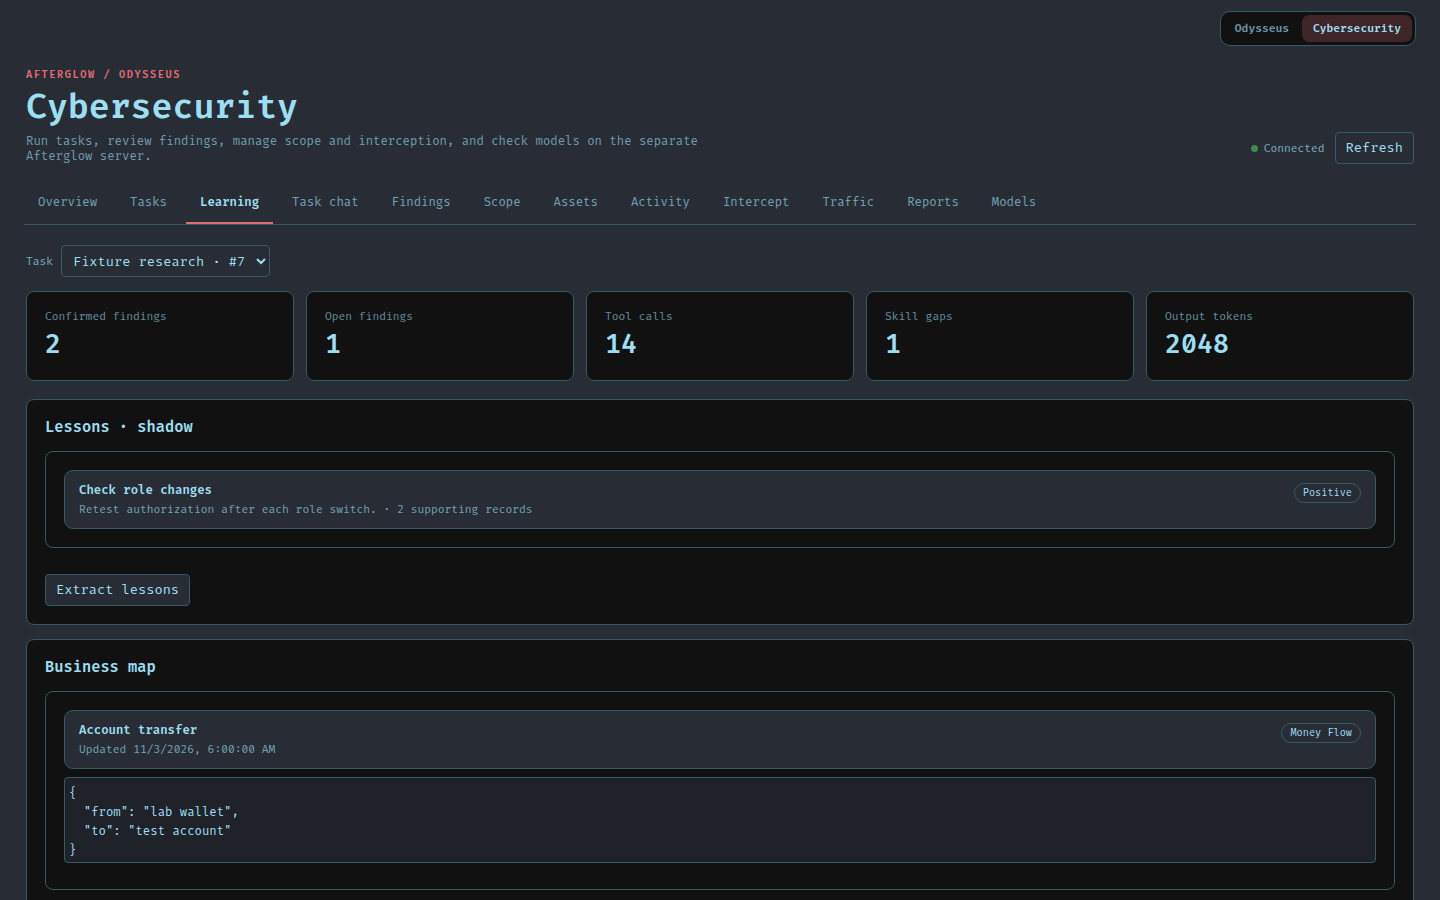
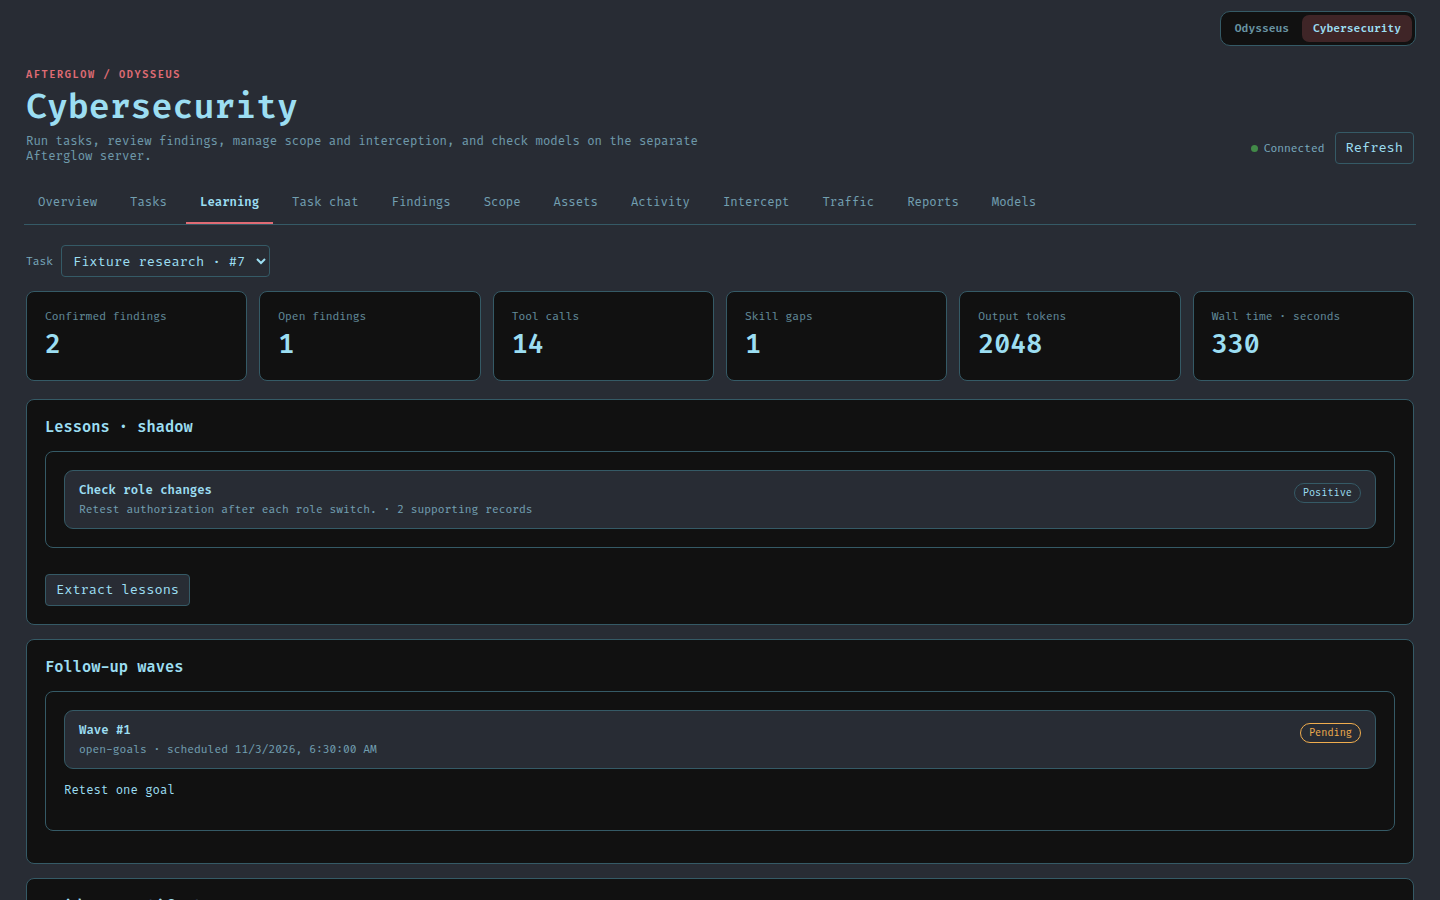
Show follow-up waves, artifacts, and safe handoff summaries

diff --git a/static/js/cybersecurity.js b/static/js/cybersecurity.js
@@ -440,8 +440,10 @@ export function initCybersecurityMode() {
     await loadTasks();
     if (!selectedTask) return empty('Create or select a task to view its learning record.');
     const taskId = selectedTask;
-    const [outcome, lessonData, mapData, campaignData, huntData, chainData] = await Promise.all([
+    const [outcome, lessonData, waveData, artifactData, handoffData, mapData, campaignData, huntData, chainData] = await Promise.all([
       api(`/tasks/${taskId}/outcome`), api(`/tasks/${taskId}/lessons`),
+      api(`/tasks/${taskId}/waves`), api(`/tasks/${taskId}/artifacts`),
+      api(`/tasks/${taskId}/c2-handoffs`),
       api(`/tasks/${taskId}/business-map`), api(`/tasks/${taskId}/campaign`),
       api(`/tasks/${taskId}/hunt-classes`), api(`/tasks/${taskId}/attack-chains`),
     ]);
@@ -455,6 +457,7 @@ export function initCybersecurityMode() {
       card('Tool calls', outcome.tool_calls ?? 0),
       card('Skill gaps', outcome.skill_misses ?? 0),
       card('Output tokens', outcome.tokens?.output_tokens ?? 0),
+      card('Wall time · seconds', outcome.wall_seconds ?? 0),
     );
     wrap.append(metrics);
 
@@ -481,6 +484,26 @@ export function initCybersecurityMode() {
       () => api(`/tasks/${taskId}/lessons/extract`, { method: 'POST', body: {} }),
       'Lesson extraction complete')));
     lessonPanel.append(lessonActions);
+
+    const waves = Array.isArray(waveData.waves) ? waveData.waves : [];
+    listSection('Follow-up waves', waves, 'No follow-up waves recorded for this task.', (wave) => {
+      const item = panel('');
+      item.append(row(`Wave #${wave.wave_number || wave.id}`,
+        `${wave.reason || 'Follow-up'} · scheduled ${fmtDate(wave.scheduled_at)}`, wave.status));
+      if (wave.detail) item.append(element('p', 'cyber-detail', wave.detail));
+      if (wave.spawned_task_id) item.append(element('p', 'cyber-detail',
+        `Follow-up task #${wave.spawned_task_id}`));
+      return item;
+    });
+
+    const artifacts = Array.isArray(artifactData.artifacts) ? artifactData.artifacts : [];
+    listSection('Evidence artifacts', artifacts, 'No evidence files indexed for this task.', (artifact) => {
+      const item = panel('');
+      item.append(row(artifact.path || `Artifact #${artifact.id}`,
+        `${Math.ceil(Number(artifact.size_bytes || 0) / 1024)} KiB · SHA-256 ${artifact.sha256 || 'unavailable'}`,
+        artifact.type));
+      return item;
+    });
 
     const businessMap = Array.isArray(mapData.business_map) ? mapData.business_map : [];
     listSection('Business map', businessMap, 'No business model entries recorded.', (entry) => {
@@ -523,6 +546,15 @@ export function initCybersecurityMode() {
       if (chain.reason) item.append(element('p', 'cyber-detail', `Result: ${chain.reason}`));
       if (chain.spawned_task_id) item.append(element('p', 'cyber-detail',
         `Verification task #${chain.spawned_task_id}`));
+      return item;
+    });
+    const handoffs = Array.isArray(handoffData.handoffs) ? handoffData.handoffs : [];
+    listSection('C2 handoffs', handoffs, 'No C2 handoffs recorded for this task.', (handoff) => {
+      const item = panel('');
+      item.append(row(handoff.vector || `Handoff #${handoff.id}`,
+        `${handoff.target_host || ''}${handoff.target_path || ''}`, handoff.status));
+      if (handoff.binary_sha256) item.append(element('p', 'cyber-detail',
+        `${handoff.binary_arch || 'Binary'} · SHA-256 ${handoff.binary_sha256}`));
       return item;
     });
     return wrap;

diff --git a/tests/test_cybersecurity_gateway.py b/tests/test_cybersecurity_gateway.py
@@ -166,6 +166,9 @@ def test_operations_use_typed_gateway_and_omit_asset_credentials(monkeypatch):
             calls.append((path, kwargs))
             if path == "/api/assets" and kwargs["method"] == "GET":
                 return {"assets": [{"id": 3, "domain": "example.test", "auth": [{"token": "secret"}]}]}
+            if path == "/api/tasks/7/c2-handoffs/summary":
+                return {"handoffs": [{"id": "2", "vector": "webshell_upload", "target_host": "lab.test",
+                    "target_path": "/test", "status": "requested", "shell_url": "https://secret.test/token"}]}
             if path == "/api/report":
                 return "# Report"
             return {"id": "7", "ok": True}
@@ -237,11 +240,16 @@ def test_operations_use_typed_gateway_and_omit_asset_credentials(monkeypatch):
         }).status_code == 422
         assert browser.delete("/api/cybersecurity/tasks/7/constraints/3", headers=headers).status_code == 200
         assert calls[-1][1]["method"] == "DELETE"
-        for name in ("outcome", "lessons", "business-map", "campaign", "hunt-classes", "attack-chains"):
+        for name in ("outcome", "lessons", "waves", "artifacts", "business-map", "campaign", "hunt-classes", "attack-chains"):
             assert browser.get(f"/api/cybersecurity/tasks/7/{name}", headers=headers).status_code == 200
             assert calls[-1] == (f"/api/tasks/7/{name}", {
                 "method": "GET", "body": None, "params": None, "auth": True,
             })
+        handoffs = browser.get("/api/cybersecurity/tasks/7/c2-handoffs", headers=headers)
+        assert handoffs.status_code == 200
+        assert handoffs.json() == {"handoffs": [{"id": "2", "vector": "webshell_upload",
+            "target_host": "lab.test", "target_path": "/test", "status": "requested"}]}
+        assert calls[-1][0] == "/api/tasks/7/c2-handoffs/summary"
         assert browser.post("/api/cybersecurity/tasks/7/lessons/extract", headers={"X-Test-User": "admin"}).status_code == 403
         assert browser.post("/api/cybersecurity/tasks/7/lessons/extract", headers=headers).status_code == 200
         assert calls[-1] == ("/api/tasks/7/lessons/extract", {

diff --git a/routes/cybersecurity_routes.py b/routes/cybersecurity_routes.py
@@ -336,6 +336,26 @@ async def extract_task_lessons(request: Request, task_id: int = Path(gt=0)):
     return await _forward(f"/api/tasks/{task_id}/lessons/extract", method="POST", body={})
 
 
+@router.get("/tasks/{task_id}/waves")
+async def task_waves(task_id: int = Path(gt=0)):
+    return await _forward(f"/api/tasks/{task_id}/waves")
+
+
+@router.get("/tasks/{task_id}/artifacts")
+async def task_artifacts(task_id: int = Path(gt=0)):
+    return await _forward(f"/api/tasks/{task_id}/artifacts")
+
+
+@router.get("/tasks/{task_id}/c2-handoffs")
+async def task_c2_handoffs(task_id: int = Path(gt=0)):
+    result = await _forward(f"/api/tasks/{task_id}/c2-handoffs/summary")
+    rows = result.get("handoffs") if isinstance(result, dict) else None
+    if not isinstance(rows, list) or any(not isinstance(row, dict) for row in rows):
+        raise HTTPException(status_code=502, detail="Invalid handoff response from Afterglow")
+    fields = ("id", "vector", "target_host", "target_path", "binary_arch", "binary_sha256", "status", "created_at")
+    return {"handoffs": [{key: row[key] for key in fields if key in row} for row in rows]}
+
+
 @router.get("/tasks/{task_id}/business-map")
 async def task_business_map(task_id: int = Path(gt=0)):
     return await _forward(f"/api/tasks/{task_id}/business-map")

diff --git a/docs/cybersecurity-mode.md b/docs/cybersecurity-mode.md
@@ -86,10 +86,12 @@ container itself. Keep the Ollama listener private.
   constraints. Goal additions and edits wake the planner and can resume a task.
   Constraints enter agent prompts as guidance; they do not enforce network or
   tool limits.
-- Learning: review task outcomes, evidence-backed lessons, the business map,
-  campaign branches, hunt coverage, and attack chains. Operators can extract
-  available lessons for a task; advanced board edits and chain verification
-  use the full Afterglow console.
+- Learning: review task outcomes, evidence-backed lessons, follow-up waves,
+  indexed evidence files, the business map, campaign branches, hunt coverage,
+  attack chains, and C2 handoff status. Operators can extract available
+  lessons for a task. The backend summary omits C2 shell URLs; handoff
+  decisions, advanced board edits, and chain verification use the full
+  Afterglow console.
 - Task chat: read the current main-agent conversation, send messages, stop a
   reply, or start a new conversation segment.
 - Findings: search and filter the paginated list, triage status and severity,
